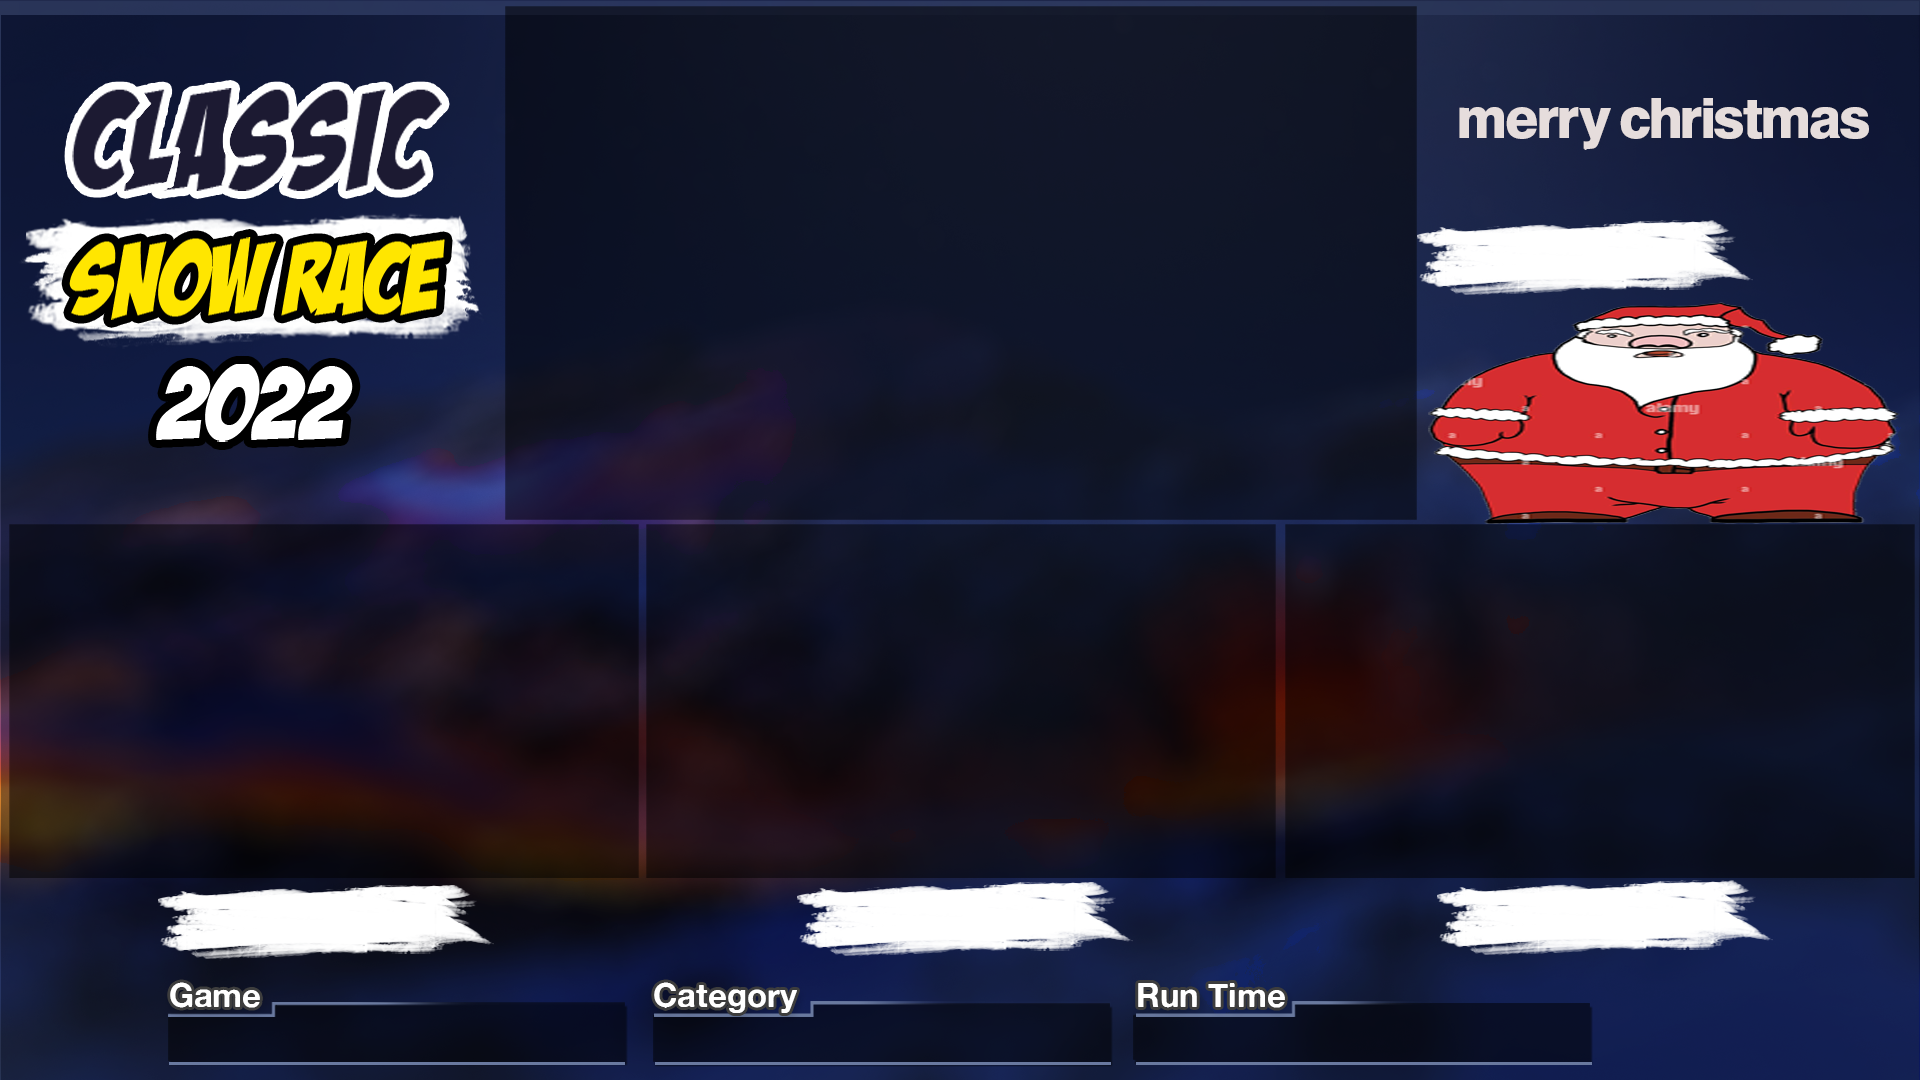
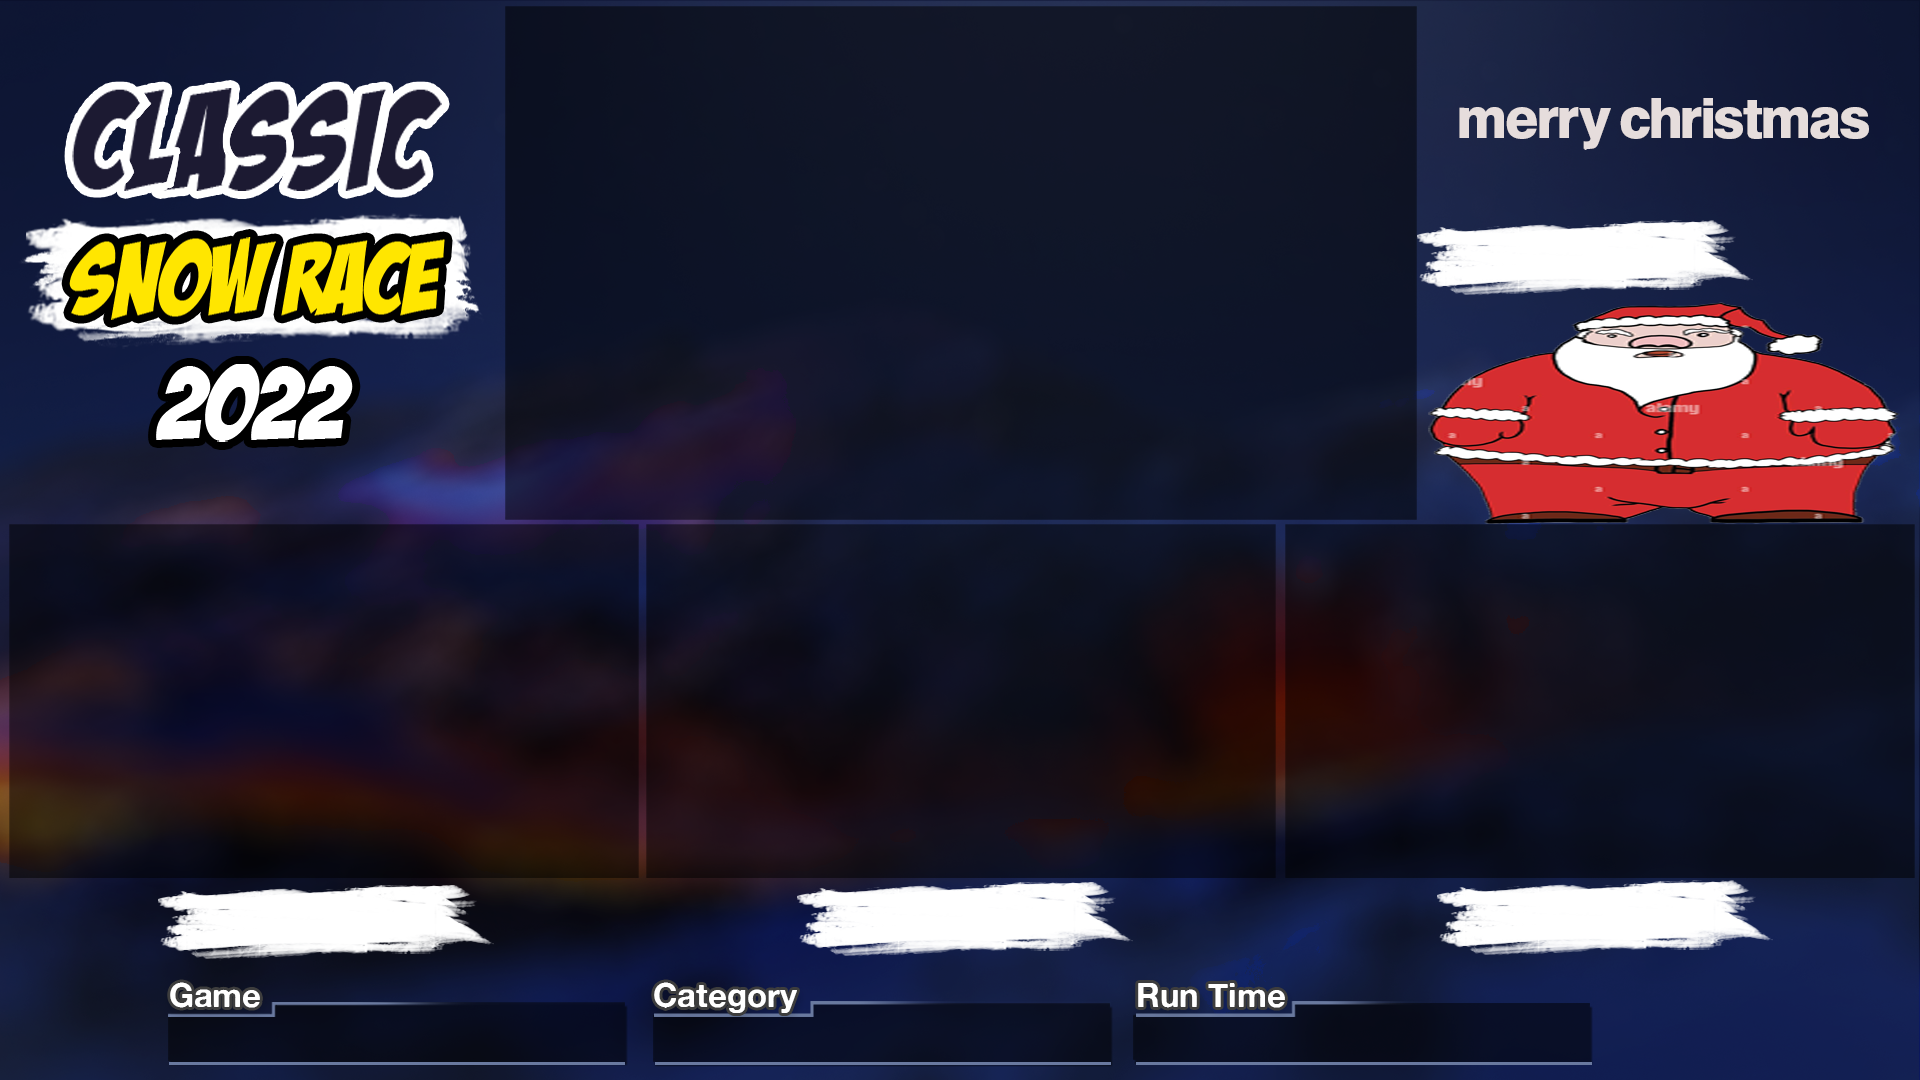
Small updates

Changed region(s): [[0.0, 0.0, 0.2812, 0.0306], [0.8438, 0.0, 1.0, 0.0306]]

diff --git a/src/extension/obs.ts b/src/extension/obs.ts
@@ -23,7 +23,7 @@ if (config.enabled) {
     clearTimeout(reconnectTimeout);
     if (!connectedToOBSRep.value) {
       nodecg().log.info("Connecting to OBS...");
-      obs.connect(config.address).catch((err) => {
+      obs.connect(`${config.address}:${config.port}`).catch((err) => {
         nodecg().log.error(`Failed to connect to OBS! Reason: ${err}`);
         reconnectTimeout = setTimeout(reconnectToOBS, 5000);
       });

diff --git a/src/graphics/main/main.vue b/src/graphics/main/main.vue
@@ -76,7 +76,7 @@
       :style="{
         position: 'absolute',
         left: '825px',
-        top: '892px',
+        top: '890px',
         width: '260px',
         height: '50px',
       }"
@@ -87,7 +87,7 @@
       :style="{
         position: 'absolute',
         left: '1470px',
-        top: '892px',
+        top: '888px',
         width: '260px',
         height: '50px',
       }"
